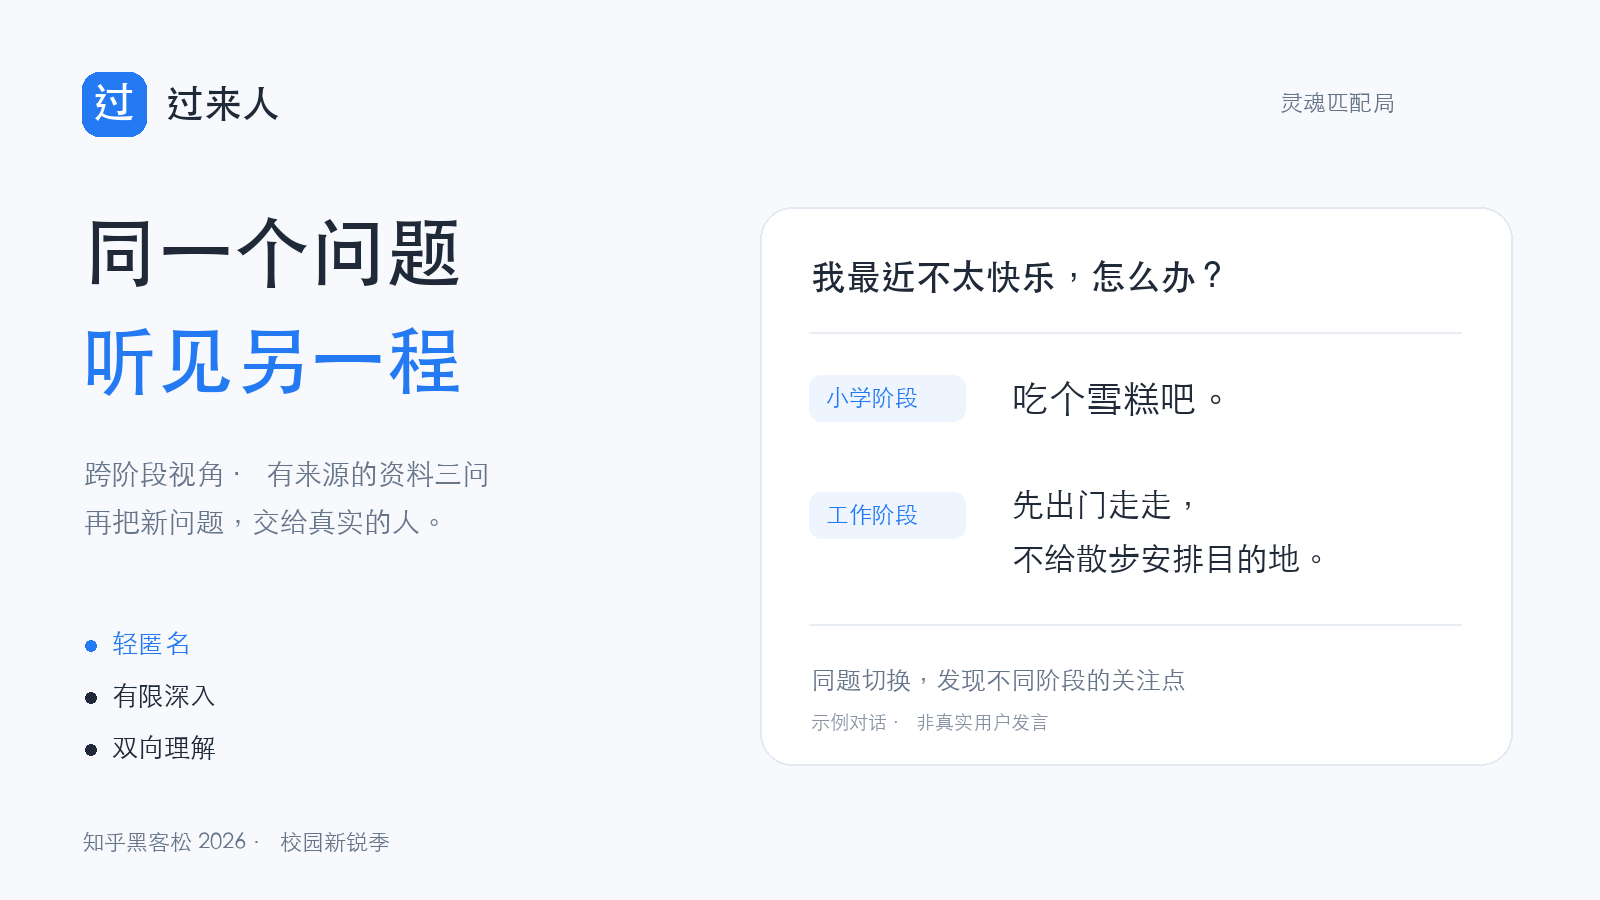
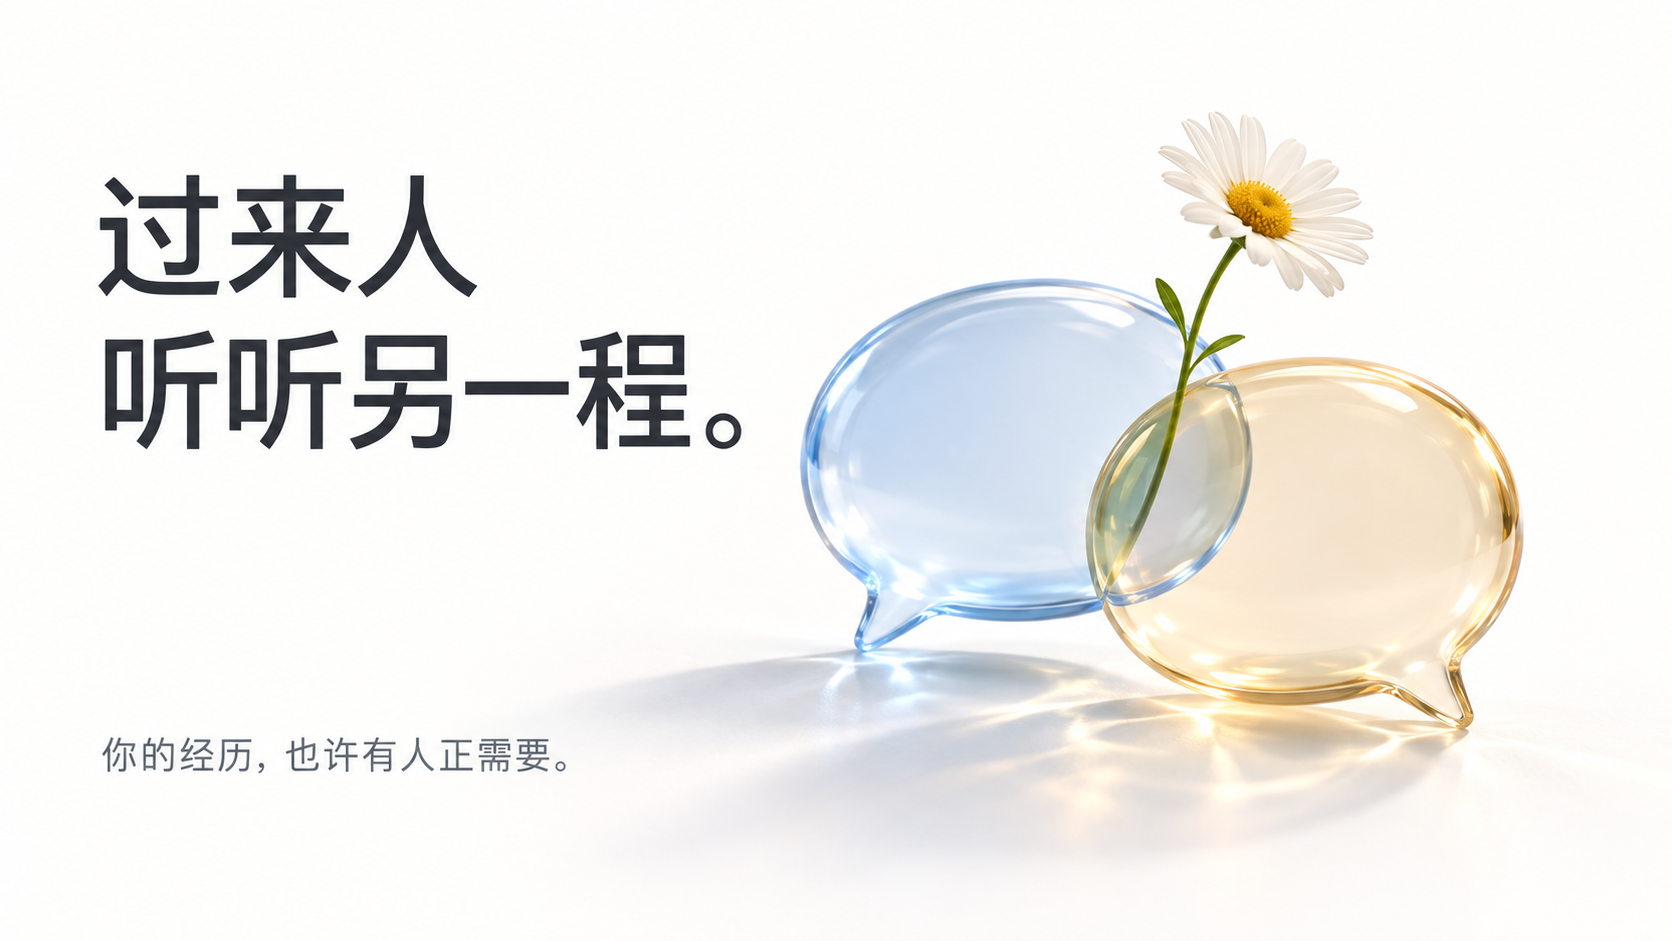
Refresh poster with conversation flower artwork

diff --git a/public/submission/index.html b/public/submission/index.html
@@ -1,4 +1,4 @@
 <!doctype html><html lang="zh-CN"><meta charset="utf-8">
 <meta name="viewport" content="width=device-width,initial-scale=1"><title>过来人 · 产品计划书</title>
 <style>*{box-sizing:border-box}body{margin:0;background:#f5f7fb;color:#202631;font:16px/1.9 system-ui,-apple-system,"PingFang SC",sans-serif}main{max-width:900px;margin:36px auto;padding:44px 56px;background:white;border:1px solid #e7eaf0;border-radius:20px}h1{font-size:32px;line-height:1.4;margin:0 0 24px}h2{font-size:23px;margin:38px 0 14px}h3{font-size:18px}p,li{overflow-wrap:anywhere}a{color:#146be5;text-underline-offset:4px}nav{display:flex;gap:20px;flex-wrap:wrap;padding-bottom:30px;font-size:14px}strong{font-weight:650}code{font-size:14px}section{border-top:1px solid #e7eaf0;margin-top:48px;padding-top:32px}video{width:100%;max-height:560px;background:#edf0f5;border-radius:12px}small{color:#6f7a8a}@media(max-width:600px){main{margin:0;padding:28px 22px;border:0;border-radius:0}h1{font-size:26px}}@media print{body{background:white}main{margin:0;max-width:none;border:0;padding:0}nav,.video-section{display:none}h2{break-after:avoid}p,li{orphans:3;widows:3}a{color:inherit}}</style>
-<main><nav><a href="/">打开产品体验</a><a href="/library.html">来源资料库</a><a href="https://github.com/mingyiwei954-bit/guolairen-hackathon-2026">公开代码仓库</a></nav><h1>过来人 · 产品计划书</h1><p>过来人｜听听另一程<br>2026 年 9 月 15 日迭代版 · 灵魂匹配局：社区连接与兴趣社交</p><p>同一个问题，听见不同人生阶段的声音。</p><p>一、为什么做<br>一个大学生问“我最近不太快乐，怎么办？”，孩子可能说“吃个雪糕吧”，工作多年的人可能说“先出去走走”。我们想让这些原本不容易相遇的视角，在同一个问题下相遇。求学、工作、退休是首版浏览维度，不是经验高低的评价。产品服务于愿意分享生活经验、理解另一阶段的人，让讨论从寻找标准答案转向理解彼此。</p><p>二、这一版可以怎样体验<br>进入首页“过来人”，选择“听过来人说／听没过来人说”和人生阶段，看到对应人群的回答。问答上下错位，人生阶段与内容相伴；最热内容优先，其余内容可刷新轮换。<br>点开问题后连续上下阅读，同题不同经历之间用轻符号分隔。公开昵称与头像帮助建立联系，可以点赞、点亮黄色收藏星，也可以展开沿竖线排列的追评继续讨论。返回时保留浏览位置，页面采用轻缓的左右推入、拉出过渡。<br>“写回答”打开完整编辑器：文字、最多 4 张图片、3 个话题、5 个标签，支持草稿和图片放大。用户确认发布后保存到本项目数据库。话题检索调用知乎官方内容搜索，展示相关知乎内容与原链接；平台未提供的话题 ID 和站内发布能力不会伪造。<br>点击“问问看山”，看山居中思考，页面轻缓移动一次到思考区域。答案以文字淡入呈现，内容出现后保持阅读位置。用户可以查看来源、手动刷新；另保留基于资料的有限三问与追问转真人提问链路。</p><p>三、AI 与知乎的连接<br>看山回答由独立 Answer Agent 组织：本地资料检索、官方联网搜索、DeepSeek 生成、引用约束和程序校验。来源 URL 由程序给定，模型不能编造。搜索摘要与全文严格区分，资料不足、额度不足或模型失败有对应提示。<br>来源资料库收录知乎官方社区搜索摘要，以及活动开放的知识与故事素材；保留原始链接、内容范围和类型。故事标记为 fiction，排除在看山的事实证据检索之外。用户可在资料库查看来源，不把模型生成的内容再次作为事实来源。<br>本项目已经接入知乎 OAuth 登录。普通浏览与本项目内问答沿用访客会话；人生阶段来自用户自述，不能由外部作者文风推断。</p><p>四、让评委能体验完整社区链路<br>演示开关开启时，发布提问或回答后约 2 秒出现模拟赞同通知，随后出现两条简短 AI 角色回应。角色带有设定年龄、人生阶段和表达约束，结合检索资料生成 1–2 句话；失败时使用短模板。虚拟角色标识为 AI 角色，不代表真实知乎用户。该链路仅在演示站运行，不向知乎社区自动发帖。<br>信息流提供近百个问题的 mock 场景，含千赞、万赞的热度梯度；热门回答配有 34–40 条 mock 追评。昵称、初始点赞与这些追评是演示数据，不代表真实活跃、增长或用户规模。真实访客的新提交独立持久化，部署保留线上已有数据。</p><p>五、技术与可靠性<br>原生 JavaScript/CSS、Python HTTP 服务、SQLite、HTTPX、DeepSeek。手机使用自然视口，电脑以手机容器演示；图片在服务端验证并去除元数据后保存。模型请求通过并发控制、请求 ID 和持久化状态避免重复生成；后台网络等待不持有数据库写事务。<br>发布采用 Git 提交、版本包、数据库备份与增量迁移，代码版本可回退。密钥仅在服务端配置，不进入公开源码和前端。</p><p>六、验证与下一步<br>已实际检查连续阅读、导航过渡、问问看山的定位和稳定显示、图文编辑与图片查看、话题搜索、点赞收藏、追评展开、热门排序和模拟通知。后端覆盖媒体权限、评论幂等、角色约束、资料与引用、登录和问答回归。尚无真实规模负载、用户留存和全机型触摸测试，不把演示反馈等同于真实社区数据。<br>下一步邀请不同阶段的人围绕同题真实回答，观察是否看到新的角度、是否愿意继续讨论，再决定阶段维度和互动机制的扩展。</p><p>体验：https://zhihu.yunzhicompany.com/<br>完整计划书：https://zhihu.yunzhicompany.com/submission/<br>来源资料库：https://zhihu.yunzhicompany.com/library.html<br>公开源码：https://github.com/mingyiwei954-bit/guolairen-hackathon-2026<br>最新视频为 70 秒横屏广告：合成男声与简体字幕，人物段采用 AI 画面运镜，产品段使用实际页面与操作采集；剧情及回复为演示。</p><section id="verification"><h2>交付检查</h2><p>2026 年 9 月 15 日迭代；此次发布同步代码、资料与演示互动。Mock 热度不代表真实用户规模。</p></section><section class="video-section"><h2>70 秒产品广告</h2><video controls preload="metadata" src="demo.mp4?v=20260915-70"></video><small>70 秒产品广告；人物为 AI 生成画面，产品为实际页面与操作采集。</small></section></main></html>
+<main><nav><a href="/">打开产品体验</a><a href="/library.html">来源资料库</a><a href="https://github.com/mingyiwei954-bit/guolairen-hackathon-2026">公开代码仓库</a></nav><img src="cover.png?v=20260915-flower" alt="过来人，听听另一程。你的经历，也许有人正需要。" style="width:100%;height:auto;border-radius:12px;margin-bottom:24px"><h1>过来人 · 产品计划书</h1><p>过来人｜听听另一程<br>2026 年 9 月 15 日迭代版 · 灵魂匹配局：社区连接与兴趣社交</p><p>同一个问题，听见不同人生阶段的声音。</p><p>一、为什么做<br>一个大学生问“我最近不太快乐，怎么办？”，孩子可能说“吃个雪糕吧”，工作多年的人可能说“先出去走走”。我们想让这些原本不容易相遇的视角，在同一个问题下相遇。求学、工作、退休是首版浏览维度，不是经验高低的评价。产品服务于愿意分享生活经验、理解另一阶段的人，让讨论从寻找标准答案转向理解彼此。</p><p>二、这一版可以怎样体验<br>进入首页“过来人”，选择“听过来人说／听没过来人说”和人生阶段，看到对应人群的回答。问答上下错位，人生阶段与内容相伴；最热内容优先，其余内容可刷新轮换。<br>点开问题后连续上下阅读，同题不同经历之间用轻符号分隔。公开昵称与头像帮助建立联系，可以点赞、点亮黄色收藏星，也可以展开沿竖线排列的追评继续讨论。返回时保留浏览位置，页面采用轻缓的左右推入、拉出过渡。<br>“写回答”打开完整编辑器：文字、最多 4 张图片、3 个话题、5 个标签，支持草稿和图片放大。用户确认发布后保存到本项目数据库。话题检索调用知乎官方内容搜索，展示相关知乎内容与原链接；平台未提供的话题 ID 和站内发布能力不会伪造。<br>点击“问问看山”，看山居中思考，页面轻缓移动一次到思考区域。答案以文字淡入呈现，内容出现后保持阅读位置。用户可以查看来源、手动刷新；另保留基于资料的有限三问与追问转真人提问链路。</p><p>三、AI 与知乎的连接<br>看山回答由独立 Answer Agent 组织：本地资料检索、官方联网搜索、DeepSeek 生成、引用约束和程序校验。来源 URL 由程序给定，模型不能编造。搜索摘要与全文严格区分，资料不足、额度不足或模型失败有对应提示。<br>来源资料库收录知乎官方社区搜索摘要，以及活动开放的知识与故事素材；保留原始链接、内容范围和类型。故事标记为 fiction，排除在看山的事实证据检索之外。用户可在资料库查看来源，不把模型生成的内容再次作为事实来源。<br>本项目已经接入知乎 OAuth 登录。普通浏览与本项目内问答沿用访客会话；人生阶段来自用户自述，不能由外部作者文风推断。</p><p>四、让评委能体验完整社区链路<br>演示开关开启时，发布提问或回答后约 2 秒出现模拟赞同通知，随后出现两条简短 AI 角色回应。角色带有设定年龄、人生阶段和表达约束，结合检索资料生成 1–2 句话；失败时使用短模板。虚拟角色标识为 AI 角色，不代表真实知乎用户。该链路仅在演示站运行，不向知乎社区自动发帖。<br>信息流提供近百个问题的 mock 场景，含千赞、万赞的热度梯度；热门回答配有 34–40 条 mock 追评。昵称、初始点赞与这些追评是演示数据，不代表真实活跃、增长或用户规模。真实访客的新提交独立持久化，部署保留线上已有数据。</p><p>五、技术与可靠性<br>原生 JavaScript/CSS、Python HTTP 服务、SQLite、HTTPX、DeepSeek。手机使用自然视口，电脑以手机容器演示；图片在服务端验证并去除元数据后保存。模型请求通过并发控制、请求 ID 和持久化状态避免重复生成；后台网络等待不持有数据库写事务。<br>发布采用 Git 提交、版本包、数据库备份与增量迁移，代码版本可回退。密钥仅在服务端配置，不进入公开源码和前端。</p><p>六、验证与下一步<br>已实际检查连续阅读、导航过渡、问问看山的定位和稳定显示、图文编辑与图片查看、话题搜索、点赞收藏、追评展开、热门排序和模拟通知。后端覆盖媒体权限、评论幂等、角色约束、资料与引用、登录和问答回归。尚无真实规模负载、用户留存和全机型触摸测试，不把演示反馈等同于真实社区数据。<br>下一步邀请不同阶段的人围绕同题真实回答，观察是否看到新的角度、是否愿意继续讨论，再决定阶段维度和互动机制的扩展。</p><p>体验：https://zhihu.yunzhicompany.com/<br>完整计划书：https://zhihu.yunzhicompany.com/submission/<br>来源资料库：https://zhihu.yunzhicompany.com/library.html<br>公开源码：https://github.com/mingyiwei954-bit/guolairen-hackathon-2026<br>最新视频为 70 秒横屏广告：合成男声与简体字幕，人物段采用 AI 画面运镜，产品段使用实际页面与操作采集；剧情及回复为演示。</p><section id="verification"><h2>交付检查</h2><p>2026 年 9 月 15 日迭代；此次发布同步代码、资料与演示互动。Mock 热度不代表真实用户规模。</p></section><section class="video-section"><h2>70 秒产品广告</h2><video poster="cover.png?v=20260915-flower" controls preload="metadata" src="demo.mp4?v=20260915-70"></video><small>70 秒产品广告；人物为 AI 生成画面，产品为实际页面与操作采集。</small></section></main></html>
